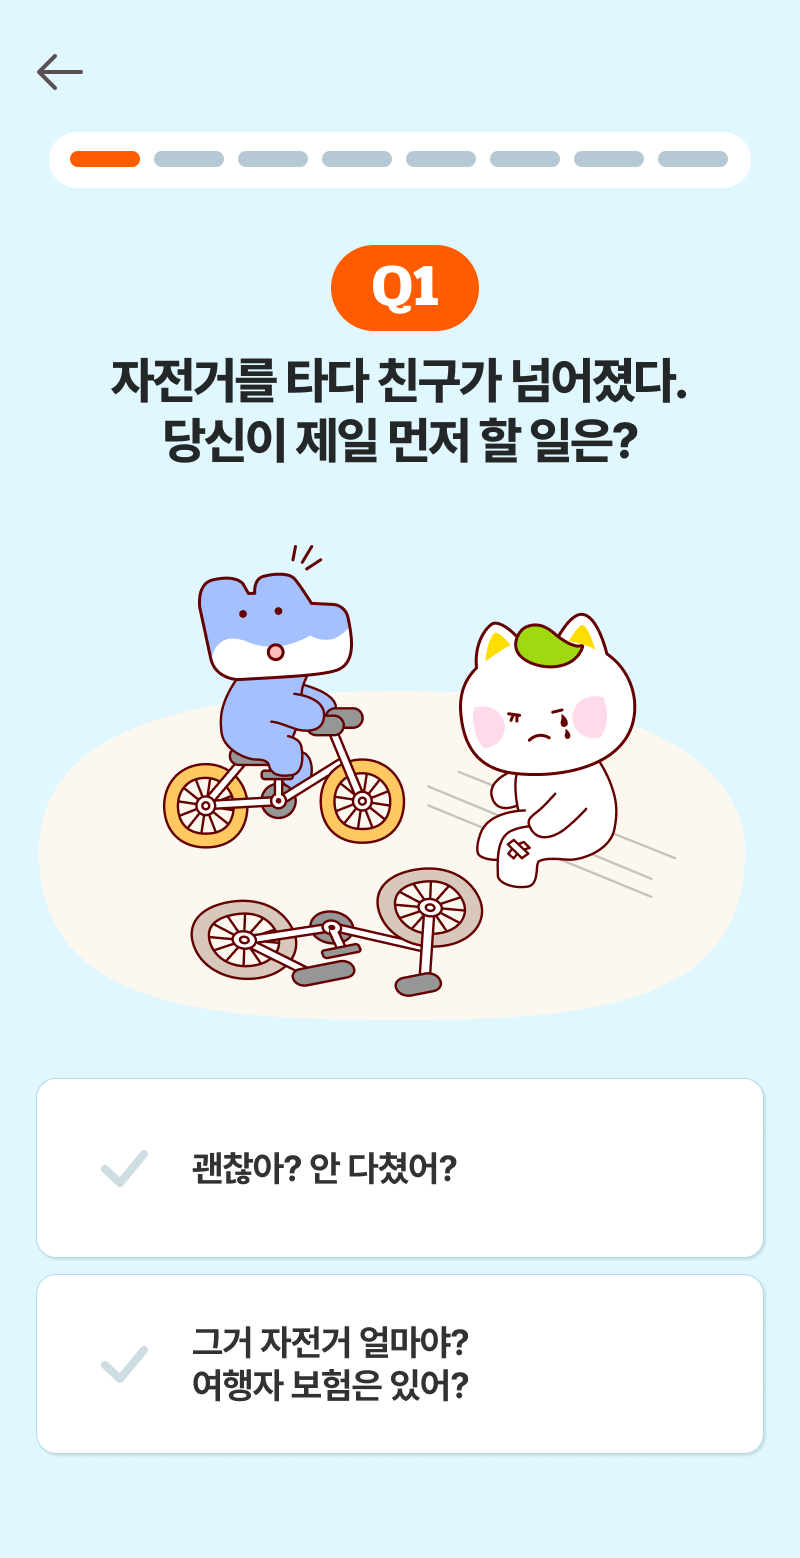
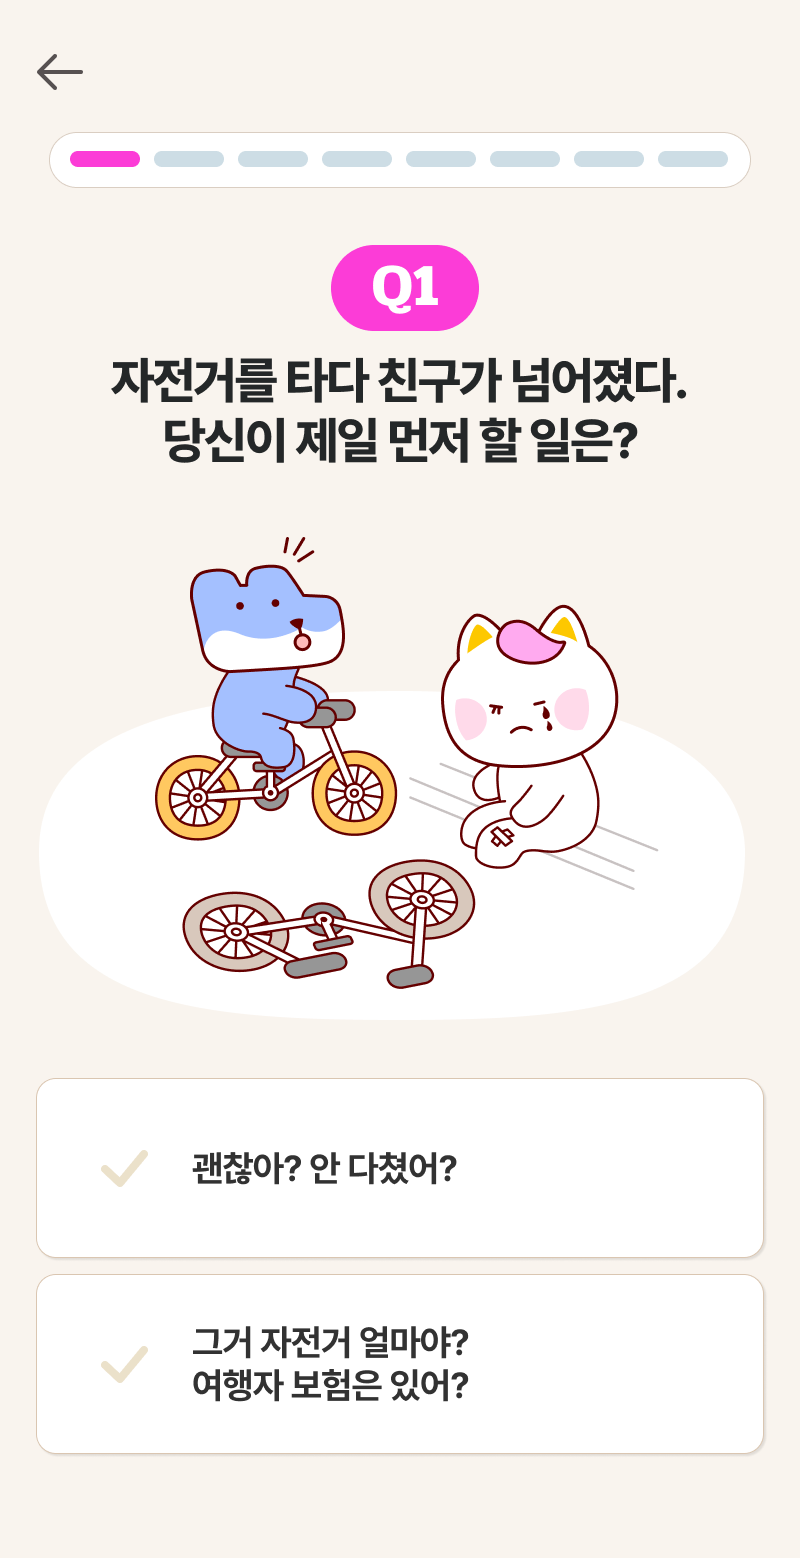
commit-2

diff --git a/dist/css/draft_1_1.build.css b/dist/css/draft_1_1.build.css
@@ -1,4 +1,4 @@
 /*! normalize.css v8.0.1 | MIT License | github.com/necolas/normalize.css */html{line-height:1.15;-webkit-text-size-adjust:100%}*,*::before,*::after{box-sizing:border-box}body{margin:0;padding:0}main{display:block}h1{font-size:2em;margin:.67em 0}ul li{list-style:none;padding:0;margin:0}a{text-decoration:none}hr{box-sizing:content-box;height:0;overflow:visible}pre{font-family:monospace,monospace;font-size:1em}a{background-color:rgba(0,0,0,0)}abbr[title]{border-bottom:none;text-decoration:underline;-webkit-text-decoration:underline dotted;text-decoration:underline dotted}b,strong{font-weight:bolder}code,kbd,samp{font-family:monospace,monospace;font-size:1em}small{font-size:80%}sub,sup{font-size:75%;line-height:0;position:relative;vertical-align:baseline}sub{bottom:-0.25em}sup{top:-0.5em}img{border-style:none}button,input,optgroup,select,textarea{font-family:inherit;font-size:100%;line-height:1.15;margin:0}button,input{overflow:visible}button,select{text-transform:none}button,[type=button],[type=reset],[type=submit]{-webkit-appearance:button}button::-moz-focus-inner,[type=button]::-moz-focus-inner,[type=reset]::-moz-focus-inner,[type=submit]::-moz-focus-inner{border-style:none;padding:0}button:-moz-focusring,[type=button]:-moz-focusring,[type=reset]:-moz-focusring,[type=submit]:-moz-focusring{outline:1px dotted ButtonText}button{border:none;margin:0;padding:0}fieldset{padding:.35em .75em .625em}legend{box-sizing:border-box;color:inherit;display:table;max-width:100%;padding:0;white-space:normal}progress{vertical-align:baseline}textarea{overflow:auto}[type=checkbox],[type=radio]{box-sizing:border-box;padding:0}[type=number]::-webkit-inner-spin-button,[type=number]::-webkit-outer-spin-button{height:auto}[type=search]{-webkit-appearance:textfield;outline-offset:-2px}[type=search]::-webkit-search-decoration{-webkit-appearance:none}::-webkit-file-upload-button{-webkit-appearance:button;font:inherit}details{display:block}summary{display:list-item}template{display:none}[hidden]{display:none}
 body{overflow-x:hidden}.main{position:relative;width:100%;max-width:640px;margin:0 auto}
-.main{position:relative;cursor:pointer}.main.full-height{height:100vh;overflow-y:hidden}.depth{background-color:#e0f7ff}.depth-wrap{position:absolute;width:100%;height:100vh;top:0;right:-100%;transition:right .3s}.depth-wrap.active{right:0}
+.main{position:relative;cursor:pointer}.main.full-height{height:100vh;overflow-y:hidden}.depth{background-color:#f9f4ee}.depth-wrap{position:absolute;width:100%;height:100vh;top:0;right:-100%;transition:right .3s}.depth-wrap.active{right:0}
 html,body{margin:0;padding:0}*{box-sizing:border-box}.mockup-body{width:100%;background-color:#dbe0e3}.tablet-back{width:100%;position:absolute;width:706px;height:922px;margin:auto;background-image:url(../img/ipad_pro_frame.png);background-size:706px 922px;background-repeat:no-repeat;left:0;right:0;top:50%;transform:translateY(-50%);-webkit-transform:translateY(-50%);-moz-transform:translateY(-50%);-ms-transform:translateY(-50%);-o-transform:translateY(-50%)}.mobile-sample{background-color:#3f4149}.mobile-back{position:absolute;width:422px;height:814px;margin:auto;left:0;right:0;top:50%;transform:translateY(-50%);-webkit-transform:translateY(-50%);-moz-transform:translateY(-50%);-ms-transform:translateY(-50%);-o-transform:translateY(-50%);background-image:url(../img/iphone_frame_light_gray.png);background-size:424px 814px;background-repeat:no-repeat}.mobile-back .screen-wrap{border:none;display:block;overflow-y:scroll;overflow-x:hidden;position:absolute;width:376px;height:780px;top:17px;left:24px;border-radius:43px}.tablet-sample,.mobile-sample{width:100%;background-color:#dbe0e3}.tablet-sample iframe{width:700px;height:860px;border:none;display:block;overflow-y:scroll;overflow-x:hidden}.tablet-sample iframe.screen-wrap{position:absolute;width:642px;height:857px;top:34px;left:30px;border-radius:10px 10px 10px 10px;-webkit-border-radius:10px 10px 10px 10px;-moz-border-radius:10px 10px 10px 10px;-ms-border-radius:10px 10px 10px 10px;-o-border-radius:10px 10px 10px 10px}.mo-page{-ms-overflow-style:none;overflow:auto}.mo-page::-webkit-scrollbar{width:0px;display:none}.mo-page::-webkit-scrollbar-track{display:none}.mo-page::-webkit-scrollbar-thumb{display:none;background:#000}.mo-page.white{background-color:#fff}.wrap{position:relative;width:100%;min-height:100vh}.phone-two-wrap{width:100%;display:flex;height:814px;position:relative;justify-content:space-around;margin:0 auto;padding-top:3rem;max-width:1100px}.phone-two-wrap .phone-wrap{width:500px;position:relative;height:814px}

diff --git a/dist/css/draft_1.scss b/dist/css/draft_1.scss
@@ -5,7 +5,7 @@
   }
 }
 .depth{
-  background-color: #E0F7FF;
+  background-color: #F9F4EE;
 }
 .depth-wrap{
   position: absolute; width:100%; height:100vh;

diff --git a/public/css/draft_1.scss b/public/css/draft_1.scss
@@ -5,7 +5,7 @@
   }
 }
 .depth{
-  background-color: #E0F7FF;
+  background-color: #F9F4EE;
 }
 .depth-wrap{
   position: absolute; width:100%; height:100vh;
